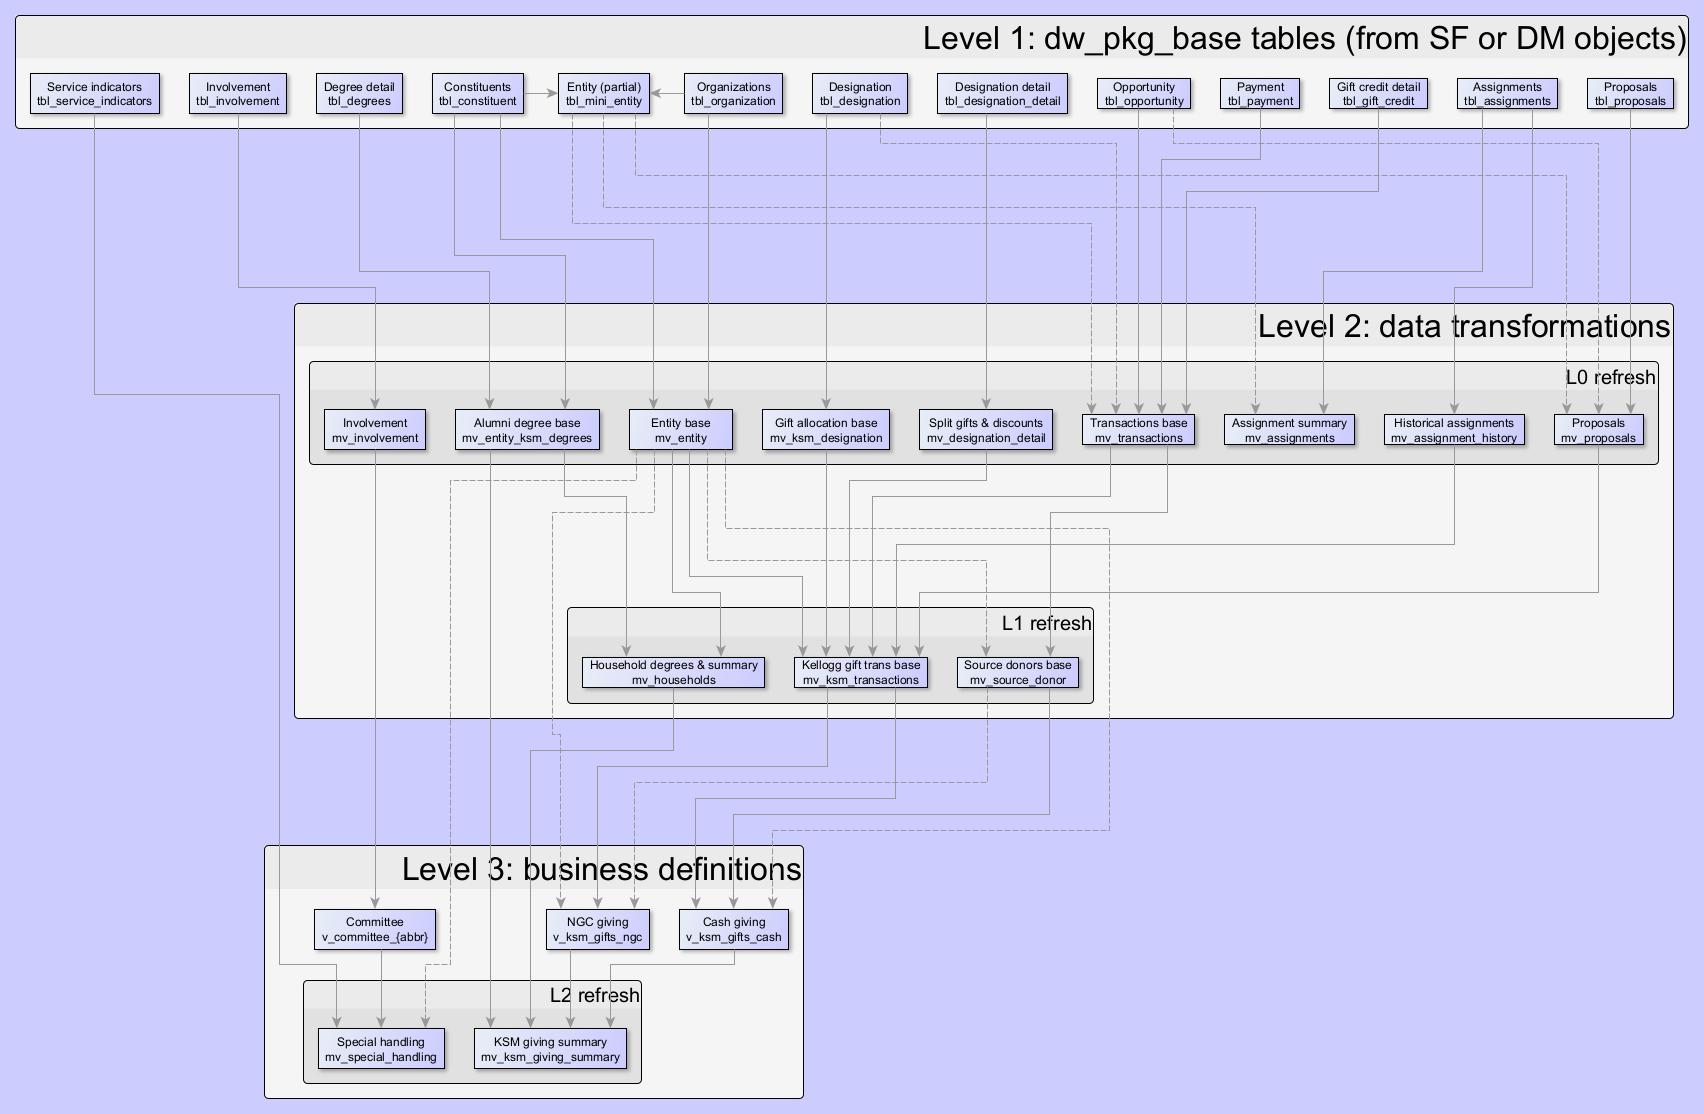
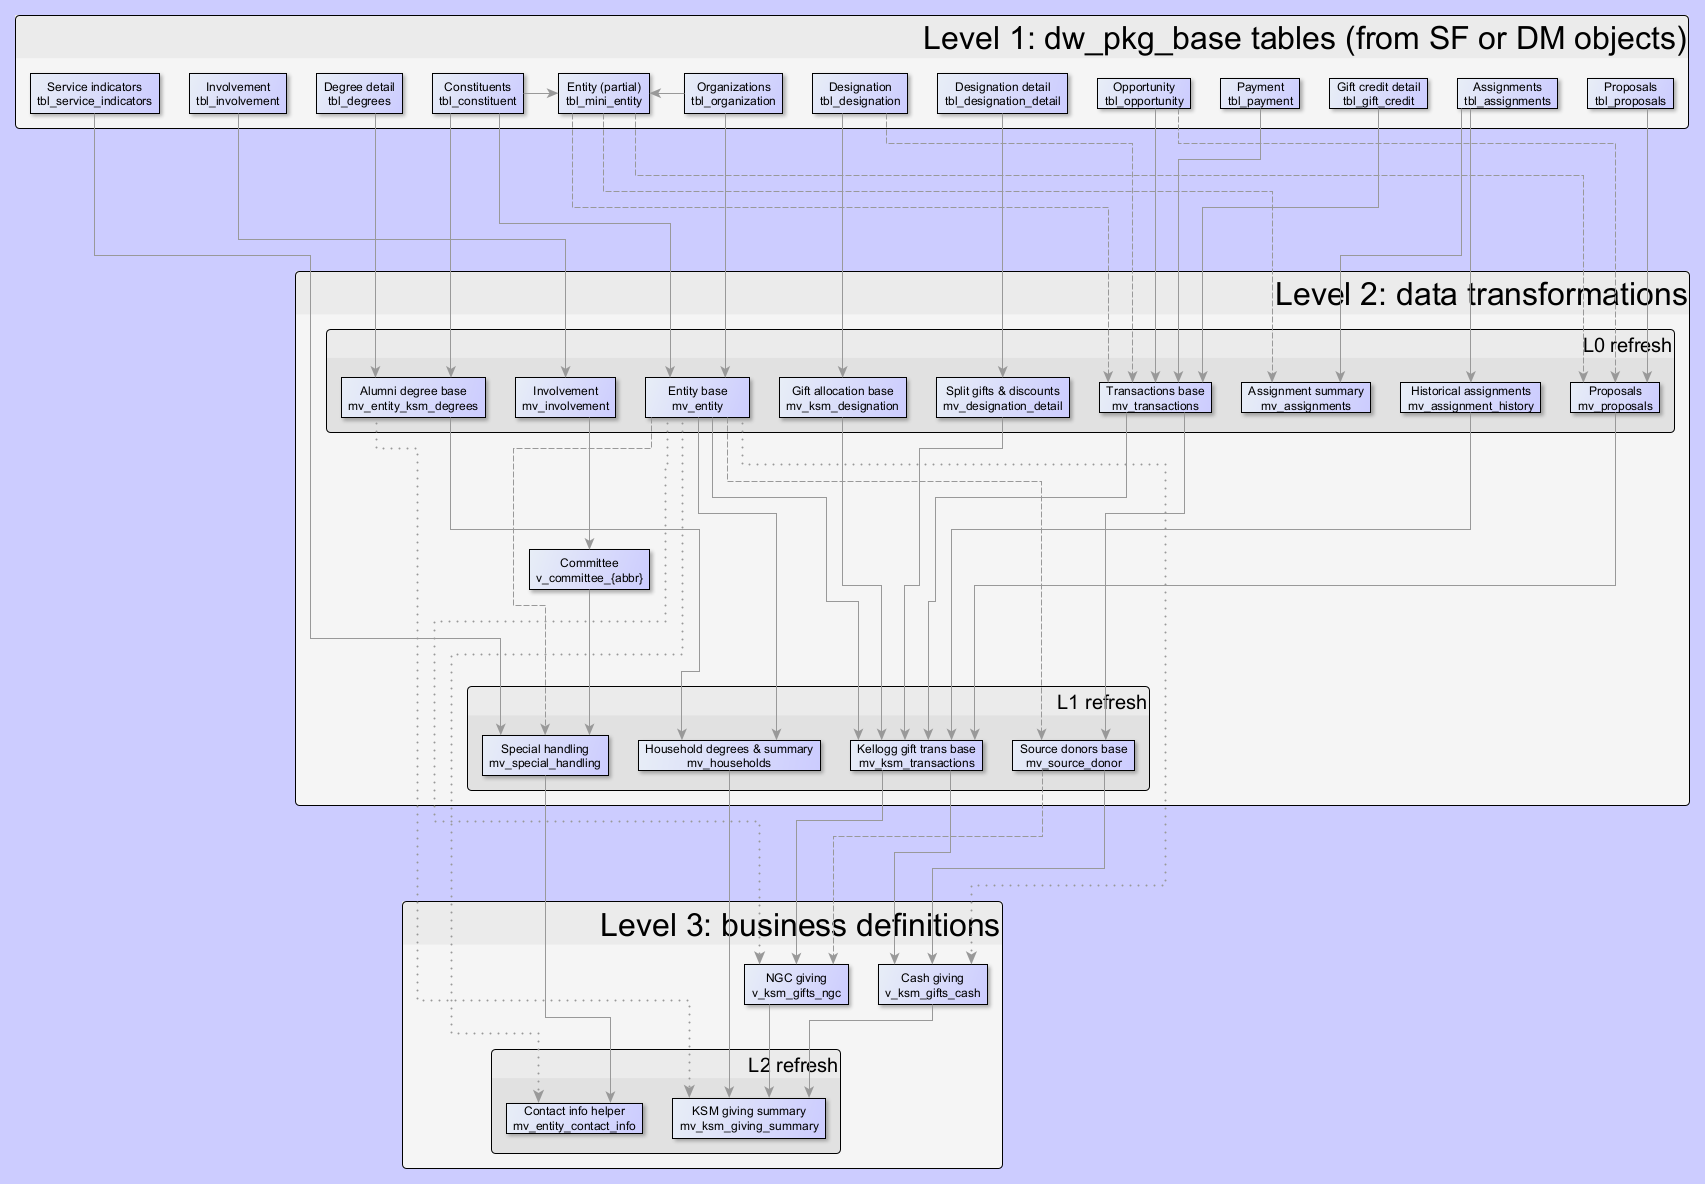
ksm_pkg_contacts address logic - Address logic added to ksm_pkg_contacts - Address modified dates added to dw_pkg_base for deduping tiebreaks - Address tiebreaks: most recently added primary wins - LinkedIn tiebreaks: shorter URL wins - Created c_entity_contact_info definitions and added materialize

Changed region(s): [[0.0, 0.0, 0.9953, 1.0]]

diff --git a/README.md b/README.md
@@ -6,7 +6,7 @@ Contains SQL and PL/SQL code for various Kellogg data definitions and best pract
 
 Concept: lower level tables should be defined based on SF objects, then joined/transformed into higher level definitions. Data packages should have clear hierarchical dependencies, and a single responsibility.
 
-WIP as of May 2025. Blue are available for testing in PRD.
+WIP as of July 2025. Blue are available for testing in PRD.
 
 ![data_hierarchy.png](images/data_hierarchy.png "Proposed data hierarchy")
 
